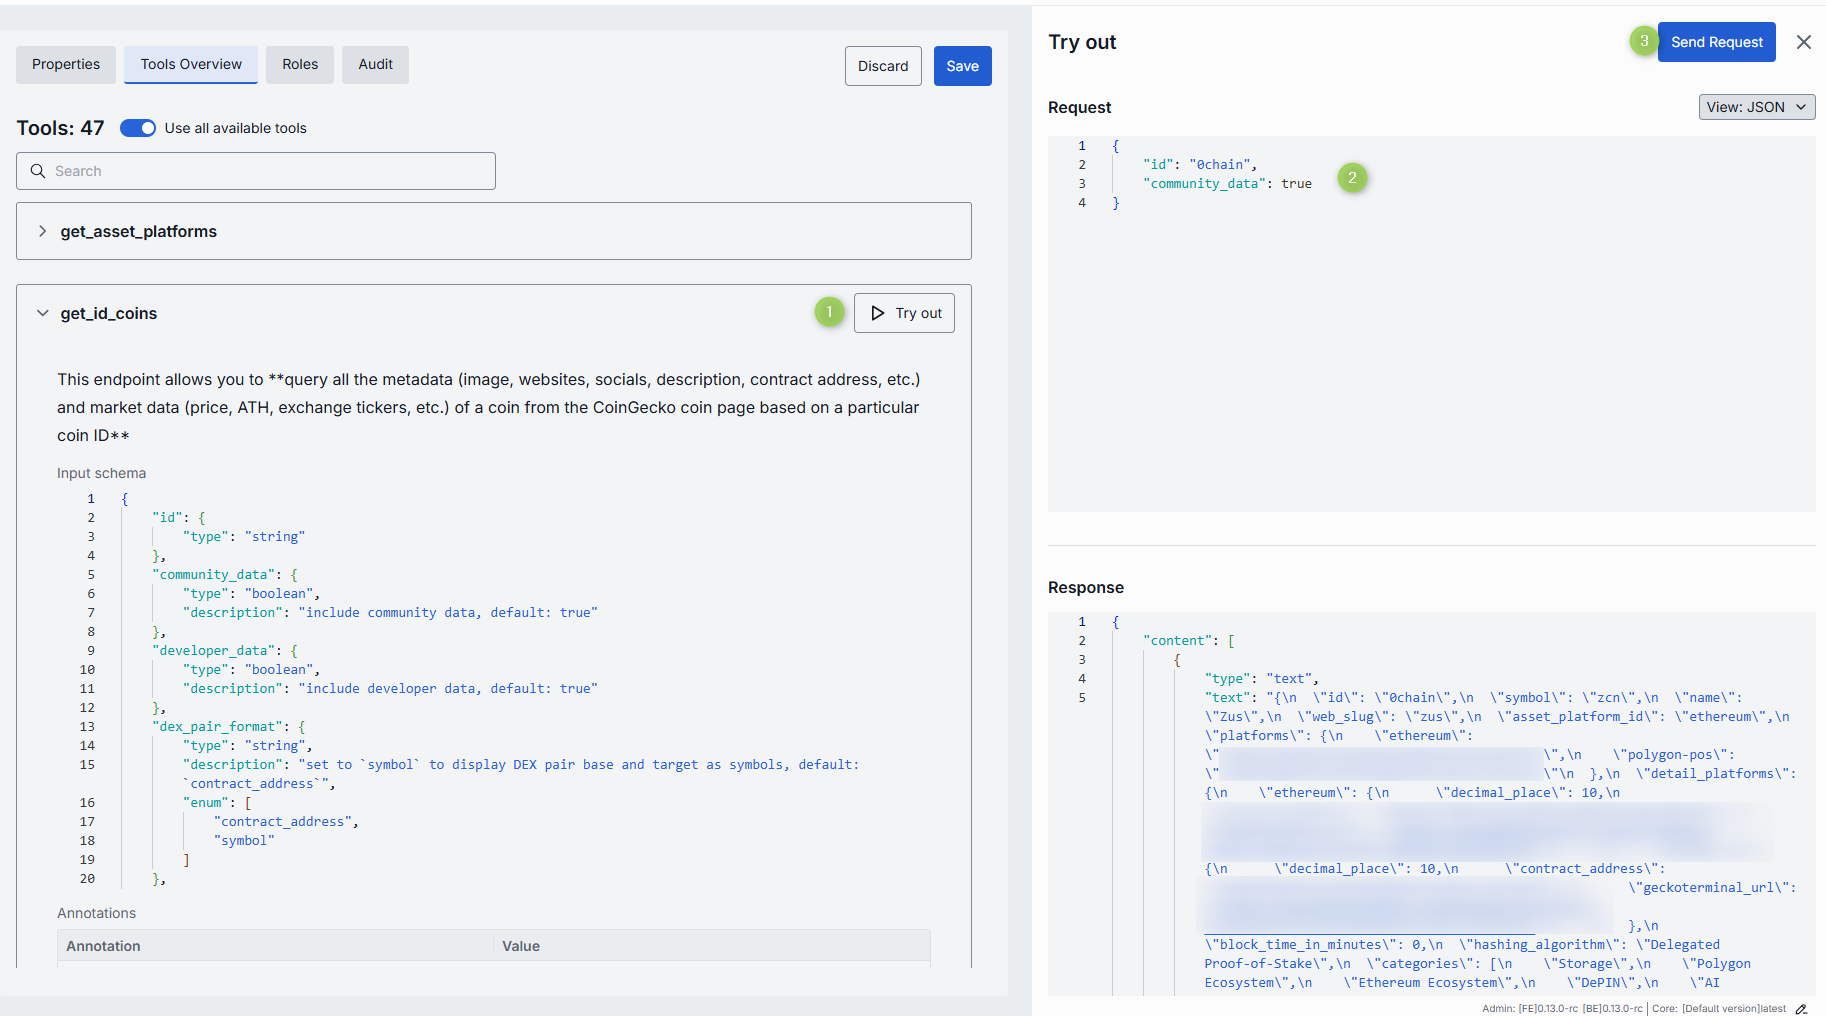
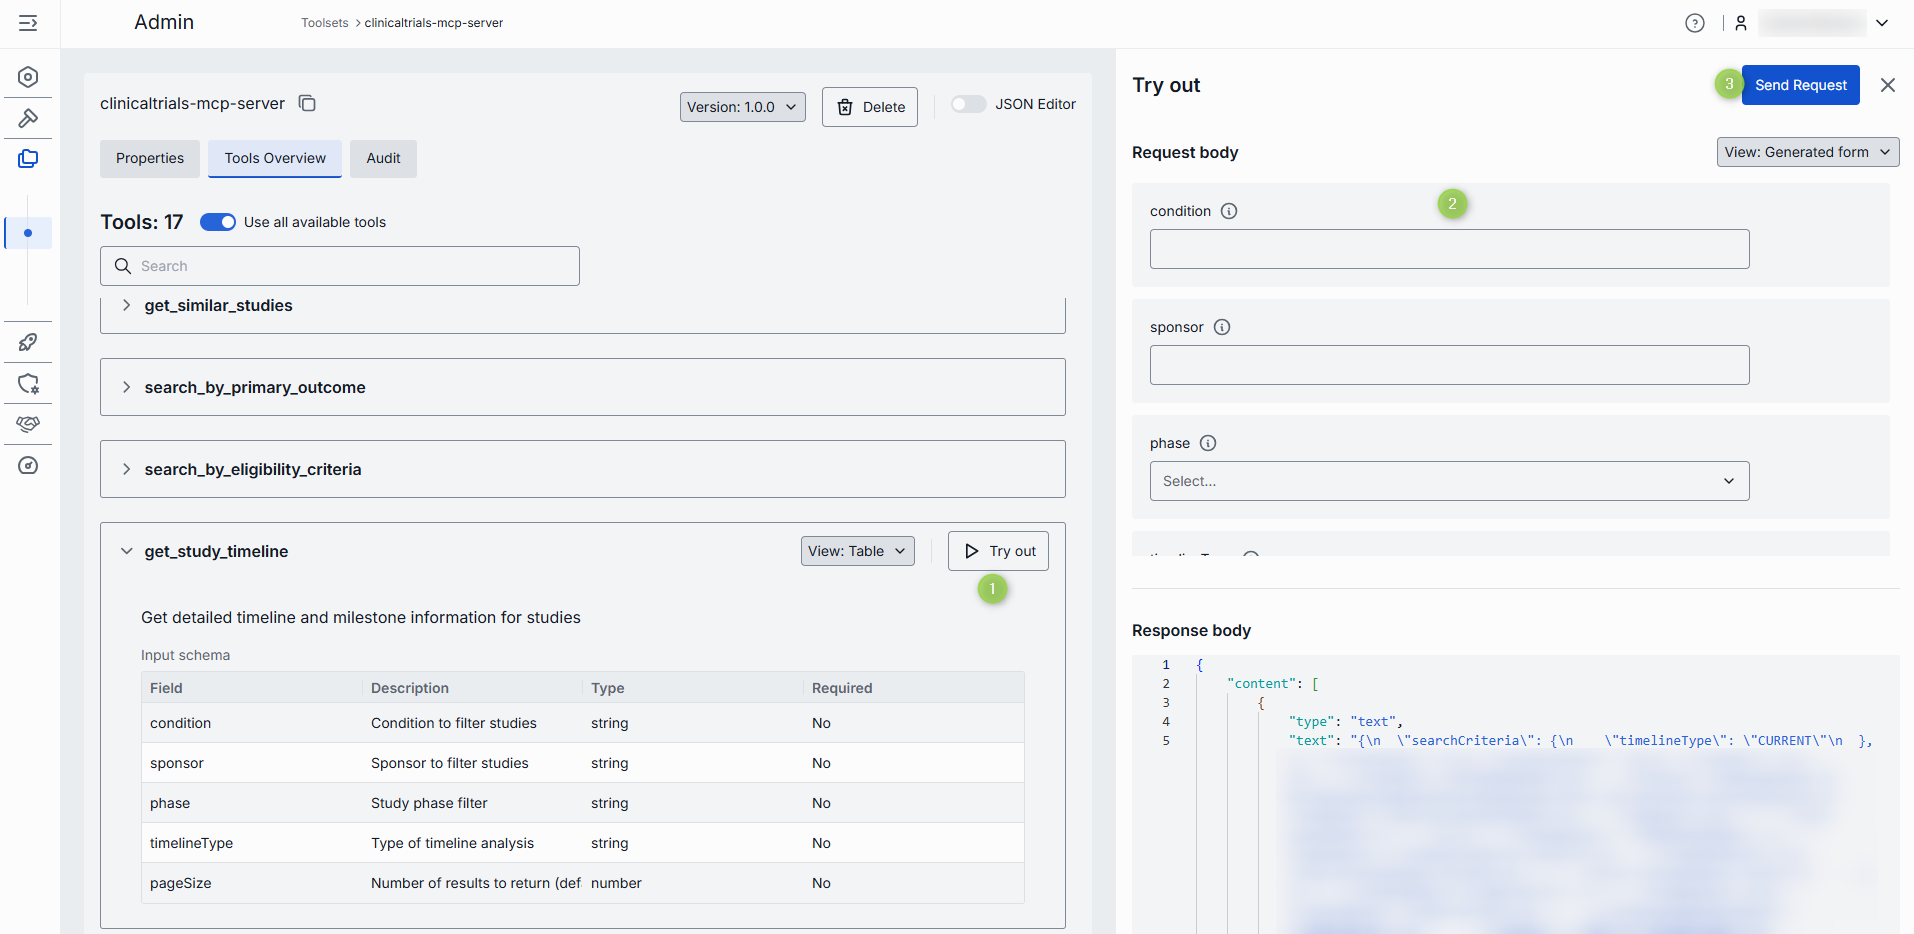
FE tickets 2536 and 2646

diff --git a/docs/tutorials/3.admin/assets-toolsets.md b/docs/tutorials/3.admin/assets-toolsets.md
@@ -222,9 +222,16 @@ Disable **Use all available tools** toggle to enable a manual tools management m
 
 #### Try tools
 
-Click or hover over any **enabled** tool to enter the Try out mode.
+Click or hover over any **enabled** tool and click **Try out** to enter the Try out mode.
 
-In the **Try out mode**, you can test each enabled tool by sending a sample request to the server. When sending a request, you can use the rendered UI form to populate the request input fields or enter JSON view mode to get access to all the fields supported by the input schema.
+In the **Try out mode**, you can test each enabled tool by sending a request to the server. When sending a request, you can use the rendered UI form to populate the request input fields or enter JSON view mode to get access to all the fields supported by the input schema.
+
+##### To try tool
+
+1. Click any available tool to access its description and input schema parameters. You can display input schema in both table and JSON view modes.
+2. Click **Try out** to open a side bar for sending requests.
+3. Populate the Request body. You can display request body in both table and JSON view modes.  
+4. Click **Send Request** to send the request. The response from the server will be displayed in the Response body area.
 
 ![](img/assets_toolset_tryout.png)
 

diff --git a/docs/tutorials/3.admin/entities-toolsets.md b/docs/tutorials/3.admin/entities-toolsets.md
@@ -152,9 +152,16 @@ Disable **Use all available tools** toggle to enable a manual tools management m
 
 #### Try tools
 
-Click or hover over any **enabled** tool to enter the Try out mode.
+Click or hover over any **enabled** tool and click **Try out** to enter the Try out mode.
 
-In the **Try out mode**, you can test each enabled tool by sending a sample request to the server. When sending a request, you can use the rendered UI form to populate the request input fields or enter JSON view mode to get access to all the fields supported by the input schema.
+In the **Try out mode**, you can test each enabled tool by sending a request to the server. When sending a request, you can use the rendered UI form to populate the request input fields or enter JSON view mode to get access to all the fields supported by the input schema.
+
+##### To try tool
+
+1. Click any available tool to access its description and input schema parameters. You can display input schema in both table and JSON view modes.
+2. Click **Try out** to open a side bar for sending requests.
+3. Populate the Request body. You can display request body in both table and JSON view modes.  
+4. Click **Send Request** to send the request. The response from the server will be displayed in the Response body area.
 
 ![](img/toolset_tryout.png)
 

diff --git a/docs/tutorials/3.admin/deployments-mcp.md b/docs/tutorials/3.admin/deployments-mcp.md
@@ -151,6 +151,21 @@ On this screen, you can view the list of tools supported by the selected MCP ser
 
 ![](img/mcp_container_tools.png)
 
+#### Try tools
+
+Click or hover over any **enabled** tool and click **Try out** to enter the Try out mode.
+
+In the **Try out mode**, you can test each enabled tool by sending a request to the server. When sending a request, you can use the rendered UI form to populate the request input fields or enter JSON view mode to get access to all the fields supported by the input schema.
+
+##### To try tool
+
+1. Click any available tool to access its description and input schema parameters. You can display input schema in both table and JSON view modes.
+2. Click **Try out** to open a side bar for sending requests.
+3. Populate the Request body. You can display request body in both table and JSON view modes.  
+4. Click **Send Request** to send the request. The response from the server will be displayed in the Response body area.
+
+![](img/deployments_toolset_tryout.png)
+
 ### Resources
 
 A specific contextual data attached and managed by the MCP server that provides additional context to AI models.

diff --git a/docs/tutorials/3.admin/telemetry-dashboard.md b/docs/tutorials/3.admin/telemetry-dashboard.md
@@ -12,7 +12,7 @@ In **Dashboard**, you can monitor system metrics. Monitoring of system metrics i
 
 | Control | Description |
 |---------|-------------|
-| **Time Period** | Date range filters for all charts and tables. |
+| **Time Period** | Date range filters for all charts and tables. Users can pick one of the predefined options or set a custom time period. |
 | **+ Add filter** | Filter to drill into specific subsets of Projects and Entities. |
 | **Auto refresh** | Control allowing to pull new data (e.g. every 1 min) or turn off auto-refresh. |
 
